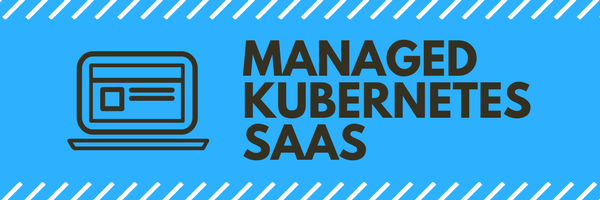
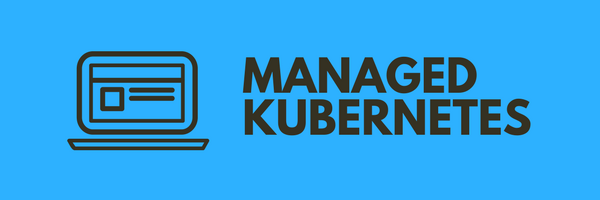
Editing navigations

Changed region(s): [[0.39, 0.18, 0.9, 0.81], [0.0, 0.9, 1.0, 1.0], [0.0, 0.0, 1.0, 0.09]]

diff --git a/index.html b/index.html
@@ -18,7 +18,7 @@ description: Managed Kubernetes SaaS
 	<section>
 		<div class="container flex">
 			<div class="text editable">
-				<h2>Managed Kubernetes SaaS Benefits</h2>
+				<h2>Managed Kubernetes Benefits</h2>
 				<p>
 					<ul>
 						<li>Focus on running your application while we run the back-end</li>
@@ -28,7 +28,7 @@ description: Managed Kubernetes SaaS
 				</p>
 			</div>
 			<div class="image">
-				<img src="/images/kube/HeaderImage.png" alt="Screenshot" class="screenshot editable" />
+				<img src="/images/kube/Benefits2.png" alt="Screenshot" class="screenshot editable" />
 			</div>
 		</div>
 	</section>

diff --git a/_layouts/default.html b/_layouts/default.html
@@ -44,7 +44,7 @@
 					</ul>
 					{% endfor %}
 				</div>
-				<p class="copyright">&copy; {{ site.time | date: '%Y' }} MyApp Ltd. • <a href="#">Terms</a> &amp; <a href="#">Privacy</a> • <a href="https://cloudcannon.com/">Template by CloudCannon</a></p>
+				<p class="copyright">&copy; {{ site.time | date: '%Y' }} DevOps Services LLC. • <a href="#">Terms</a> &amp; <a href="#">Privacy</a> </p>
 			</div>
 		</footer>
 		<script>

diff --git a/README.md b/README.md
@@ -100,3 +100,11 @@ cd /opt
 
 jekyll serve -H 0.0.0.0
 ```
+
+## Editing template notes:
+
+### Top navigation
+This is in `_data/navigation.yml` file
+
+### Footer
+This is in the `_data/footer.yml` file.
